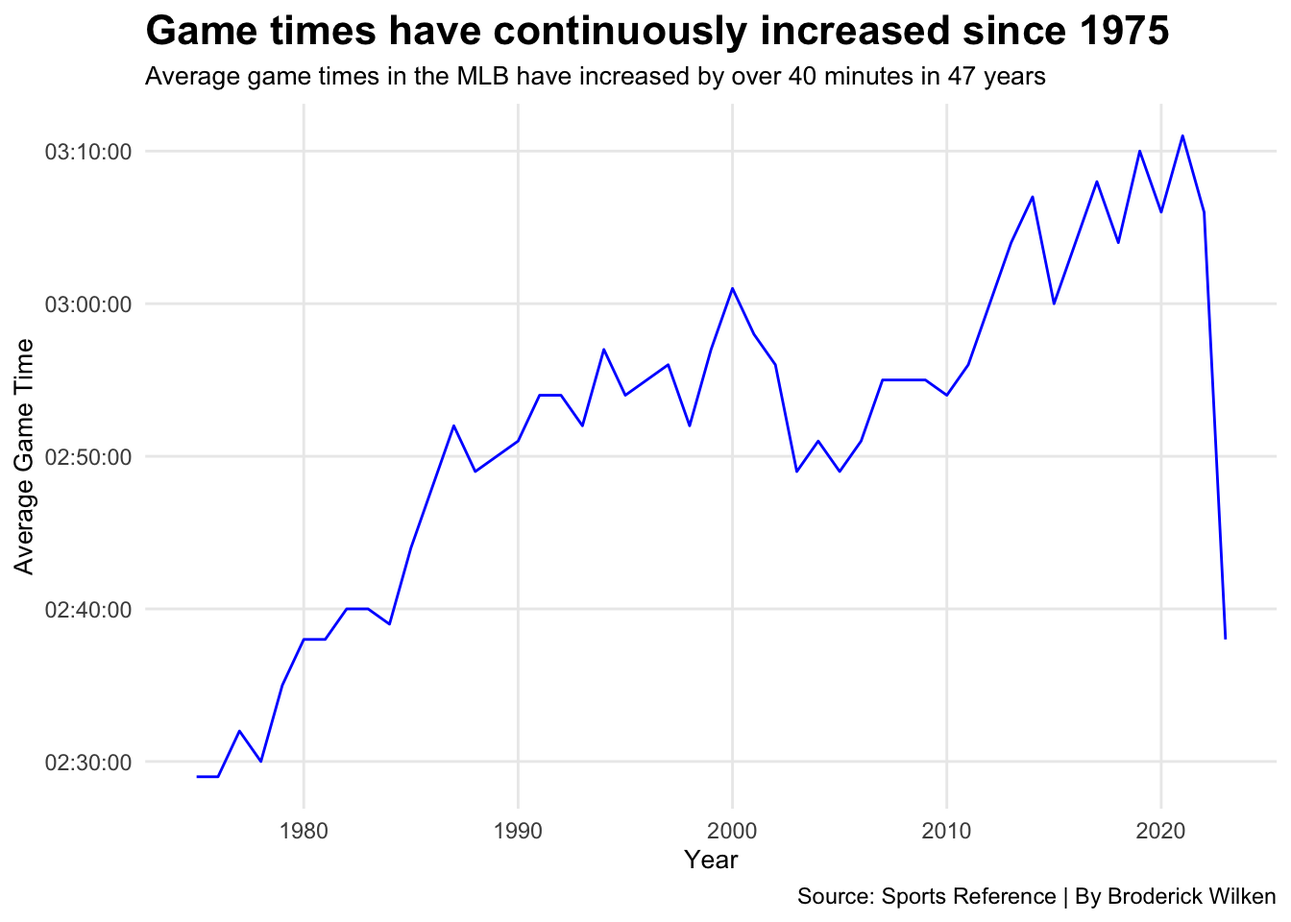
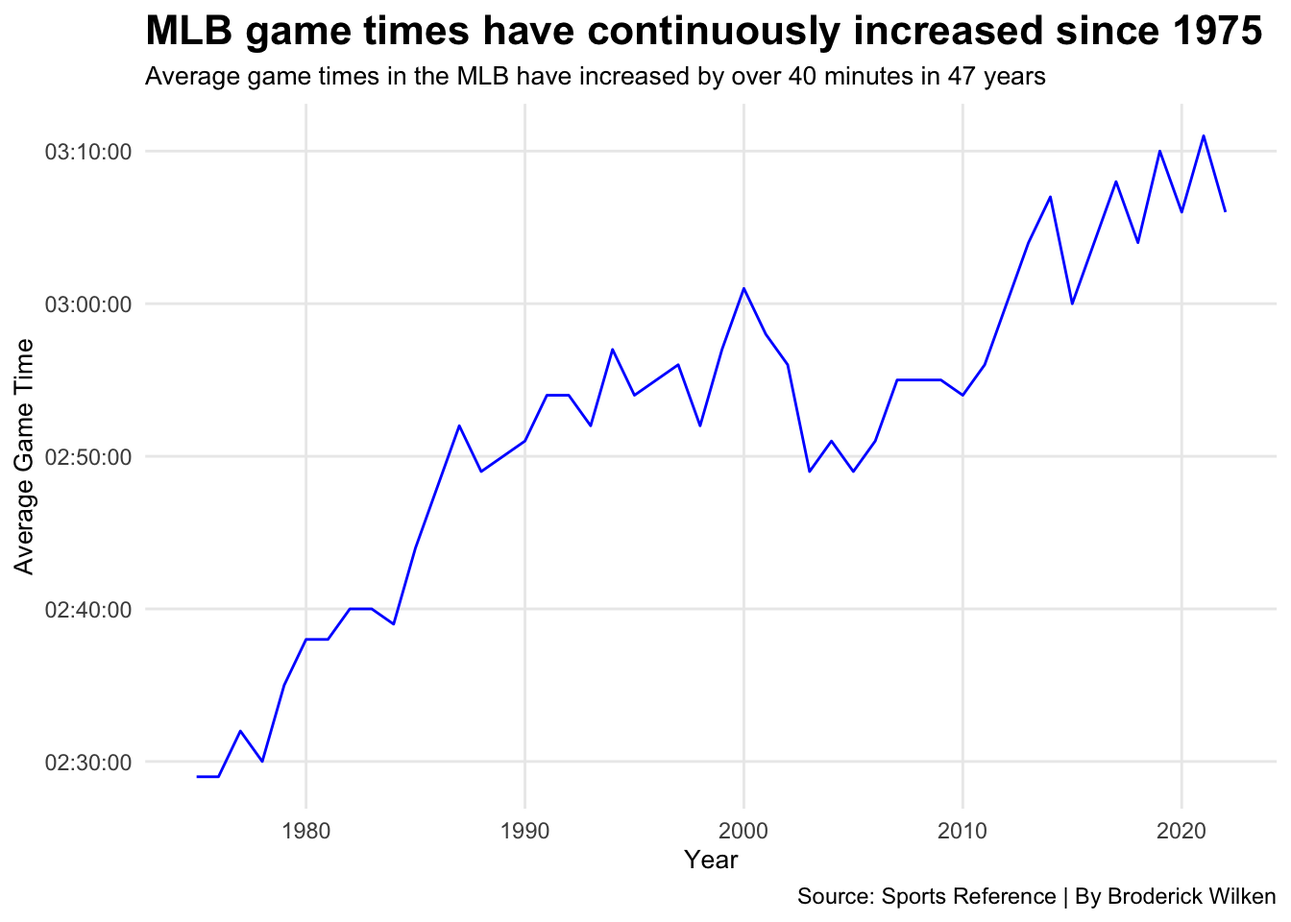
How the pitch clock will save major league baseball
Post 2

diff --git a/posts/how-the-pitch-clock-will-save-baseball/index.html b/posts/how-the-pitch-clock-will-save-baseball/index.html
@@ -9,7 +9,7 @@
 <meta name="author" content="Broderick Wilken">
 <meta name="dcterms.date" content="2023-05-07">
 
-<title>Brody’s Bytes - How the pitch clock will save baseball</title>
+<title>Brody’s Bytes - How the pitch clock will save Major League Baseball</title>
 <style>
 code{white-space: pre-wrap;}
 span.smallcaps{font-variant: small-caps;}
@@ -173,7 +173,7 @@ code span.wa { color: #60a0b0; font-weight: bold; font-style: italic; } /* Warni
 <header id="title-block-header" class="quarto-title-block default page-columns page-full">
   <div class="quarto-title-banner page-columns page-full">
     <div class="quarto-title column-body">
-      <h1 class="title">How the pitch clock will save baseball</h1>
+      <h1 class="title">How the pitch clock will save Major League Baseball</h1>
                                 <div class="quarto-categories">
                 <div class="quarto-category">baseball</div>
                 <div class="quarto-category">MLB</div>
@@ -213,6 +213,8 @@ code span.wa { color: #60a0b0; font-weight: bold; font-style: italic; } /* Warni
 
 
 
+<p>On September 8th, 2022, MLB announced that they would be adding a 15-second pitch clock to their baseball games. Many passionate fans are heavily against the rule change, and a lot of players hate it too. When looking at the business of MLB and the future of baseball, you can see the many reasons why a decision was made to add this rule.</p>
+<p>MLB has a massive problem with inactivity during games. In 2021, closing pitcher Aroldis Chapman took almost 30 seconds between pitches with a runner on base. That’s half a minute between every pitch where no action is happening. The average length of a baseball game in 1975 was two hours and twenty-nine minutes. In 2021, the average game was three hours and ten minutes.</p>
 <div class="cell">
 <details>
 <summary>Code</summary>
@@ -255,89 +257,141 @@ code span.wa { color: #60a0b0; font-weight: bold; font-style: italic; } /* Warni
 <span id="cb1-37"><a href="#cb1-37" aria-hidden="true" tabindex="-1"></a>    <span class="at">avg_vwrs =</span> <span class="fu">mean</span>(Viewers)</span>
 <span id="cb1-38"><a href="#cb1-38" aria-hidden="true" tabindex="-1"></a>  )</span>
 <span id="cb1-39"><a href="#cb1-39" aria-hidden="true" tabindex="-1"></a></span>
-<span id="cb1-40"><a href="#cb1-40" aria-hidden="true" tabindex="-1"></a>mlb_game_time <span class="ot">&lt;-</span> <span class="fu">read_csv</span>(<span class="st">"MLBGameTimes.csv"</span>)</span>
-<span id="cb1-41"><a href="#cb1-41" aria-hidden="true" tabindex="-1"></a></span>
-<span id="cb1-42"><a href="#cb1-42" aria-hidden="true" tabindex="-1"></a>mlb_attendance <span class="ot">&lt;-</span> <span class="fu">read_csv</span>(<span class="st">"2023-1990_MLB_Attendance.csv"</span>)</span>
-<span id="cb1-43"><a href="#cb1-43" aria-hidden="true" tabindex="-1"></a></span>
-<span id="cb1-44"><a href="#cb1-44" aria-hidden="true" tabindex="-1"></a>mlb_yr_attendance <span class="ot">&lt;-</span> mlb_attendance <span class="sc">%&gt;%</span></span>
-<span id="cb1-45"><a href="#cb1-45" aria-hidden="true" tabindex="-1"></a>  <span class="fu">filter</span>(Year <span class="sc">&gt;=</span> <span class="dv">2000</span>) <span class="sc">%&gt;%</span></span>
-<span id="cb1-46"><a href="#cb1-46" aria-hidden="true" tabindex="-1"></a>  <span class="fu">group_by</span>(Year) <span class="sc">%&gt;%</span></span>
-<span id="cb1-47"><a href="#cb1-47" aria-hidden="true" tabindex="-1"></a>  <span class="fu">summarise</span>(</span>
-<span id="cb1-48"><a href="#cb1-48" aria-hidden="true" tabindex="-1"></a>    <span class="at">avg_yr_att =</span> <span class="fu">mean</span>(<span class="st">`</span><span class="at">Attend/G</span><span class="st">`</span>),</span>
-<span id="cb1-49"><a href="#cb1-49" aria-hidden="true" tabindex="-1"></a>    <span class="at">total_att =</span> <span class="fu">sum</span>(<span class="st">`</span><span class="at">Attendance</span><span class="st">`</span>),</span>
-<span id="cb1-50"><a href="#cb1-50" aria-hidden="true" tabindex="-1"></a>    <span class="at">avg_time =</span> <span class="fu">mean</span>(Time)</span>
-<span id="cb1-51"><a href="#cb1-51" aria-hidden="true" tabindex="-1"></a>  ) <span class="sc">%&gt;%</span></span>
-<span id="cb1-52"><a href="#cb1-52" aria-hidden="true" tabindex="-1"></a>  <span class="fu">arrange</span>(<span class="fu">desc</span>(avg_yr_att))</span>
-<span id="cb1-53"><a href="#cb1-53" aria-hidden="true" tabindex="-1"></a></span>
-<span id="cb1-54"><a href="#cb1-54" aria-hidden="true" tabindex="-1"></a><span class="fu">ggplot</span>() <span class="sc">+</span></span>
-<span id="cb1-55"><a href="#cb1-55" aria-hidden="true" tabindex="-1"></a>  <span class="fu">geom_line</span>(<span class="at">data =</span> mlb_game_time, <span class="fu">aes</span>(<span class="at">x =</span> Year, <span class="at">y =</span> Time), <span class="at">color =</span> <span class="st">"blue"</span>) <span class="sc">+</span></span>
-<span id="cb1-56"><a href="#cb1-56" aria-hidden="true" tabindex="-1"></a>  <span class="fu">scale_y_time</span>() <span class="sc">+</span></span>
-<span id="cb1-57"><a href="#cb1-57" aria-hidden="true" tabindex="-1"></a>  <span class="fu">labs</span>(<span class="at">y =</span> <span class="st">"Average Game Time"</span>,</span>
-<span id="cb1-58"><a href="#cb1-58" aria-hidden="true" tabindex="-1"></a>       <span class="at">title =</span> <span class="st">"Game times have continuously increased since 1975"</span>,</span>
-<span id="cb1-59"><a href="#cb1-59" aria-hidden="true" tabindex="-1"></a>       <span class="at">subtitle =</span> <span class="st">"Average game times in the MLB have increased by over 40 minutes in 47 years"</span>,</span>
-<span id="cb1-60"><a href="#cb1-60" aria-hidden="true" tabindex="-1"></a>       <span class="at">caption =</span><span class="st">"Source: Sports Reference | By Broderick Wilken"</span>) <span class="sc">+</span></span>
-<span id="cb1-61"><a href="#cb1-61" aria-hidden="true" tabindex="-1"></a>  <span class="fu">theme_minimal</span>() <span class="sc">+</span></span>
-<span id="cb1-62"><a href="#cb1-62" aria-hidden="true" tabindex="-1"></a>  <span class="fu">theme</span>(</span>
-<span id="cb1-63"><a href="#cb1-63" aria-hidden="true" tabindex="-1"></a>    <span class="at">plot.title =</span> <span class="fu">element_text</span>(<span class="at">size =</span> <span class="dv">16</span>, <span class="at">face =</span> <span class="st">"bold"</span>),</span>
-<span id="cb1-64"><a href="#cb1-64" aria-hidden="true" tabindex="-1"></a>    <span class="at">plot.subtitle =</span> <span class="fu">element_text</span>(<span class="at">size =</span> <span class="dv">10</span>),</span>
-<span id="cb1-65"><a href="#cb1-65" aria-hidden="true" tabindex="-1"></a>    <span class="at">axis.title =</span> <span class="fu">element_text</span>(<span class="at">size =</span> <span class="dv">10</span>),</span>
-<span id="cb1-66"><a href="#cb1-66" aria-hidden="true" tabindex="-1"></a>    <span class="at">panel.grid.minor =</span> <span class="fu">element_blank</span>()</span>
-<span id="cb1-67"><a href="#cb1-67" aria-hidden="true" tabindex="-1"></a>  )</span></code><button title="Copy to Clipboard" class="code-copy-button"><i class="bi"></i></button></pre></div>
+<span id="cb1-40"><a href="#cb1-40" aria-hidden="true" tabindex="-1"></a>mlb_game_time <span class="ot">&lt;-</span> <span class="fu">read_csv</span>(<span class="st">"MLBGameTimes.csv"</span>) <span class="sc">%&gt;%</span></span>
+<span id="cb1-41"><a href="#cb1-41" aria-hidden="true" tabindex="-1"></a>  <span class="fu">filter</span>(Year <span class="sc">&lt;</span> <span class="dv">2023</span>)</span>
+<span id="cb1-42"><a href="#cb1-42" aria-hidden="true" tabindex="-1"></a></span>
+<span id="cb1-43"><a href="#cb1-43" aria-hidden="true" tabindex="-1"></a>mlb_attendance <span class="ot">&lt;-</span> <span class="fu">read_csv</span>(<span class="st">"2023-1990_MLB_Attendance.csv"</span>)</span>
+<span id="cb1-44"><a href="#cb1-44" aria-hidden="true" tabindex="-1"></a></span>
+<span id="cb1-45"><a href="#cb1-45" aria-hidden="true" tabindex="-1"></a>mlb_yr_attendance <span class="ot">&lt;-</span> mlb_attendance <span class="sc">%&gt;%</span></span>
+<span id="cb1-46"><a href="#cb1-46" aria-hidden="true" tabindex="-1"></a>  <span class="fu">filter</span>(Year <span class="sc">&gt;=</span> <span class="dv">2015</span>) <span class="sc">%&gt;%</span></span>
+<span id="cb1-47"><a href="#cb1-47" aria-hidden="true" tabindex="-1"></a>  <span class="fu">group_by</span>(Year) <span class="sc">%&gt;%</span></span>
+<span id="cb1-48"><a href="#cb1-48" aria-hidden="true" tabindex="-1"></a>  <span class="fu">summarise</span>(</span>
+<span id="cb1-49"><a href="#cb1-49" aria-hidden="true" tabindex="-1"></a>    <span class="at">avg_yr_att =</span> <span class="fu">mean</span>(<span class="st">`</span><span class="at">Attend/G</span><span class="st">`</span>),</span>
+<span id="cb1-50"><a href="#cb1-50" aria-hidden="true" tabindex="-1"></a>    <span class="at">total_att =</span> <span class="fu">sum</span>(<span class="st">`</span><span class="at">Attendance</span><span class="st">`</span>),</span>
+<span id="cb1-51"><a href="#cb1-51" aria-hidden="true" tabindex="-1"></a>    <span class="at">avg_time =</span> <span class="fu">mean</span>(Time)</span>
+<span id="cb1-52"><a href="#cb1-52" aria-hidden="true" tabindex="-1"></a>  ) <span class="sc">%&gt;%</span></span>
+<span id="cb1-53"><a href="#cb1-53" aria-hidden="true" tabindex="-1"></a>  <span class="fu">arrange</span>(<span class="fu">desc</span>(avg_yr_att))</span>
+<span id="cb1-54"><a href="#cb1-54" aria-hidden="true" tabindex="-1"></a></span>
+<span id="cb1-55"><a href="#cb1-55" aria-hidden="true" tabindex="-1"></a><span class="fu">ggplot</span>() <span class="sc">+</span></span>
+<span id="cb1-56"><a href="#cb1-56" aria-hidden="true" tabindex="-1"></a>  <span class="fu">geom_line</span>(<span class="at">data =</span> mlb_game_time, <span class="fu">aes</span>(<span class="at">x =</span> Year, <span class="at">y =</span> Time), <span class="at">color =</span> <span class="st">"blue"</span>) <span class="sc">+</span></span>
+<span id="cb1-57"><a href="#cb1-57" aria-hidden="true" tabindex="-1"></a>  <span class="fu">scale_y_time</span>() <span class="sc">+</span></span>
+<span id="cb1-58"><a href="#cb1-58" aria-hidden="true" tabindex="-1"></a>  <span class="fu">labs</span>(<span class="at">y =</span> <span class="st">"Average Game Time"</span>,</span>
+<span id="cb1-59"><a href="#cb1-59" aria-hidden="true" tabindex="-1"></a>       <span class="at">title =</span> <span class="st">"MLB game times have continuously increased since 1975"</span>,</span>
+<span id="cb1-60"><a href="#cb1-60" aria-hidden="true" tabindex="-1"></a>       <span class="at">subtitle =</span> <span class="st">"Average game times in the MLB have increased by over 40 minutes in 47 years"</span>,</span>
+<span id="cb1-61"><a href="#cb1-61" aria-hidden="true" tabindex="-1"></a>       <span class="at">caption =</span><span class="st">"Source: Sports Reference | By Broderick Wilken"</span>) <span class="sc">+</span></span>
+<span id="cb1-62"><a href="#cb1-62" aria-hidden="true" tabindex="-1"></a>  <span class="fu">theme_minimal</span>() <span class="sc">+</span></span>
+<span id="cb1-63"><a href="#cb1-63" aria-hidden="true" tabindex="-1"></a>  <span class="fu">theme</span>(</span>
+<span id="cb1-64"><a href="#cb1-64" aria-hidden="true" tabindex="-1"></a>    <span class="at">plot.title =</span> <span class="fu">element_text</span>(<span class="at">size =</span> <span class="dv">16</span>, <span class="at">face =</span> <span class="st">"bold"</span>),</span>
+<span id="cb1-65"><a href="#cb1-65" aria-hidden="true" tabindex="-1"></a>    <span class="at">plot.subtitle =</span> <span class="fu">element_text</span>(<span class="at">size =</span> <span class="dv">10</span>),</span>
+<span id="cb1-66"><a href="#cb1-66" aria-hidden="true" tabindex="-1"></a>    <span class="at">axis.title =</span> <span class="fu">element_text</span>(<span class="at">size =</span> <span class="dv">10</span>),</span>
+<span id="cb1-67"><a href="#cb1-67" aria-hidden="true" tabindex="-1"></a>    <span class="at">panel.grid.minor =</span> <span class="fu">element_blank</span>()</span>
+<span id="cb1-68"><a href="#cb1-68" aria-hidden="true" tabindex="-1"></a>  )</span></code><button title="Copy to Clipboard" class="code-copy-button"><i class="bi"></i></button></pre></div>
 </details>
 <div class="cell-output-display">
 <p><img src="index_files/figure-html/unnamed-chunk-1-1.png" class="img-fluid" width="672"></p>
 </div>
 </div>
+<p>While many passionate baseball fans love the length of baseball games, it’s struggled to reach a casual audience since the increase of game time. With over 40 extra minutes of inactivity during ball games, it’s not surprising to see that World Series viewership went in the wrong direction.</p>
 <div class="cell">
 <details>
 <summary>Code</summary>
-<div class="sourceCode cell-code" id="cb2"><pre class="sourceCode r code-with-copy"><code class="sourceCode r"><span id="cb2-1"><a href="#cb2-1" aria-hidden="true" tabindex="-1"></a><span class="fu">update_geom_defaults</span>(<span class="st">"text"</span>, <span class="fu">list</span>(<span class="at">size =</span> <span class="dv">3</span>))</span>
-<span id="cb2-2"><a href="#cb2-2" aria-hidden="true" tabindex="-1"></a></span>
-<span id="cb2-3"><a href="#cb2-3" aria-hidden="true" tabindex="-1"></a>bar1 <span class="ot">&lt;-</span> <span class="fu">ggplot</span>() <span class="sc">+</span></span>
-<span id="cb2-4"><a href="#cb2-4" aria-hidden="true" tabindex="-1"></a>  <span class="fu">geom_line</span>(<span class="at">data =</span> nfl_ratings, <span class="fu">aes</span>(<span class="at">x =</span> Year, <span class="at">y =</span> Viewers), <span class="at">color =</span> <span class="st">"#18453B"</span>) <span class="sc">+</span></span>
-<span id="cb2-5"><a href="#cb2-5" aria-hidden="true" tabindex="-1"></a>  <span class="fu">scale_y_continuous</span>(<span class="at">labels =</span> scales<span class="sc">::</span><span class="fu">unit_format</span>(<span class="at">unit =</span> <span class="st">"M"</span>)) <span class="sc">+</span></span>
-<span id="cb2-6"><a href="#cb2-6" aria-hidden="true" tabindex="-1"></a>  <span class="fu">labs</span>(<span class="at">title =</span> <span class="st">"Other championships are doing fine"</span>, <span class="at">subtitle =</span> <span class="st">"Super Bowl"</span>) <span class="sc">+</span></span>
-<span id="cb2-7"><a href="#cb2-7" aria-hidden="true" tabindex="-1"></a>    <span class="fu">theme_minimal</span>() <span class="sc">+</span></span>
-<span id="cb2-8"><a href="#cb2-8" aria-hidden="true" tabindex="-1"></a>  <span class="fu">theme</span>(</span>
-<span id="cb2-9"><a href="#cb2-9" aria-hidden="true" tabindex="-1"></a>    <span class="at">plot.title =</span> <span class="fu">element_text</span>(<span class="at">size =</span> <span class="dv">15</span>, <span class="at">face =</span> <span class="st">"bold"</span>))</span>
-<span id="cb2-10"><a href="#cb2-10" aria-hidden="true" tabindex="-1"></a>bar2 <span class="ot">&lt;-</span> <span class="fu">ggplot</span>() <span class="sc">+</span></span>
-<span id="cb2-11"><a href="#cb2-11" aria-hidden="true" tabindex="-1"></a>  <span class="fu">geom_line</span>(<span class="at">data =</span> nba_ratings, <span class="fu">aes</span>(<span class="at">x =</span> Year, <span class="at">y =</span> avg_vwrs), <span class="at">color =</span> <span class="st">"#18453B"</span>) <span class="sc">+</span></span>
-<span id="cb2-12"><a href="#cb2-12" aria-hidden="true" tabindex="-1"></a>  <span class="fu">scale_y_continuous</span>(<span class="at">labels =</span> scales<span class="sc">::</span><span class="fu">unit_format</span>(<span class="at">unit =</span> <span class="st">"M"</span>)) <span class="sc">+</span></span>
-<span id="cb2-13"><a href="#cb2-13" aria-hidden="true" tabindex="-1"></a>  <span class="fu">labs</span>(<span class="at">y =</span> <span class="st">"Viewers"</span>, <span class="at">title =</span> <span class="st">""</span>, <span class="at">subtitle =</span> <span class="st">"NBA Finals"</span>) <span class="sc">+</span></span>
-<span id="cb2-14"><a href="#cb2-14" aria-hidden="true" tabindex="-1"></a>    <span class="fu">theme_minimal</span>() <span class="sc">+</span></span>
-<span id="cb2-15"><a href="#cb2-15" aria-hidden="true" tabindex="-1"></a>  <span class="fu">theme</span>(</span>
-<span id="cb2-16"><a href="#cb2-16" aria-hidden="true" tabindex="-1"></a>    <span class="at">plot.title =</span> <span class="fu">element_text</span>(<span class="at">size =</span> <span class="dv">15</span>, <span class="at">face =</span> <span class="st">"bold"</span>))</span>
-<span id="cb2-17"><a href="#cb2-17" aria-hidden="true" tabindex="-1"></a>bar3 <span class="ot">&lt;-</span> <span class="fu">ggplot</span>() <span class="sc">+</span></span>
-<span id="cb2-18"><a href="#cb2-18" aria-hidden="true" tabindex="-1"></a>  <span class="fu">geom_line</span>(<span class="at">data =</span> ws_ratings, <span class="fu">aes</span>(<span class="at">x =</span> Year, <span class="at">y =</span> Viewers), <span class="at">color =</span> <span class="st">"red"</span>) <span class="sc">+</span></span>
-<span id="cb2-19"><a href="#cb2-19" aria-hidden="true" tabindex="-1"></a>  <span class="fu">geom_text</span>(<span class="fu">aes</span>(<span class="at">x =</span> <span class="dv">2016</span>, <span class="at">y =</span> <span class="dv">24500000</span>, <span class="at">label =</span> <span class="st">"2016 Cubs World Series"</span>)) <span class="sc">+</span></span>
-<span id="cb2-20"><a href="#cb2-20" aria-hidden="true" tabindex="-1"></a>  <span class="fu">geom_encircle</span>(<span class="at">data =</span> wscubs, <span class="fu">aes</span>(<span class="at">x =</span> Year, <span class="at">y =</span> Viewers), <span class="at">s_shape =</span> <span class="dv">2</span>, <span class="at">expand =</span> <span class="sc">-</span><span class="fl">0.151</span>, <span class="at">color =</span> <span class="st">"black"</span>) <span class="sc">+</span></span>
-<span id="cb2-21"><a href="#cb2-21" aria-hidden="true" tabindex="-1"></a>  <span class="fu">scale_y_continuous</span>(<span class="at">labels =</span> scales<span class="sc">::</span><span class="fu">unit_format</span>(<span class="at">unit =</span> <span class="st">"M"</span>, <span class="at">scale =</span> <span class="fl">1e-6</span>)) <span class="sc">+</span></span>
-<span id="cb2-22"><a href="#cb2-22" aria-hidden="true" tabindex="-1"></a>  <span class="fu">labs</span>(<span class="at">subtitle =</span> <span class="st">"World Series"</span>, <span class="at">caption=</span> <span class="st">""</span>) <span class="sc">+</span></span>
-<span id="cb2-23"><a href="#cb2-23" aria-hidden="true" tabindex="-1"></a>  <span class="fu">theme_minimal</span>() <span class="sc">+</span></span>
-<span id="cb2-24"><a href="#cb2-24" aria-hidden="true" tabindex="-1"></a>  <span class="fu">theme</span>(</span>
-<span id="cb2-25"><a href="#cb2-25" aria-hidden="true" tabindex="-1"></a>    <span class="at">plot.title =</span> <span class="fu">element_text</span>(<span class="at">size =</span> <span class="dv">13</span>),</span>
-<span id="cb2-26"><a href="#cb2-26" aria-hidden="true" tabindex="-1"></a>    <span class="at">plot.subtitle =</span> <span class="fu">element_text</span>(<span class="at">face =</span> <span class="st">"bold"</span>),</span>
-<span id="cb2-27"><a href="#cb2-27" aria-hidden="true" tabindex="-1"></a>    <span class="at">panel.grid.minor =</span> <span class="fu">element_blank</span>()</span>
-<span id="cb2-28"><a href="#cb2-28" aria-hidden="true" tabindex="-1"></a>  )</span>
-<span id="cb2-29"><a href="#cb2-29" aria-hidden="true" tabindex="-1"></a>bar4 <span class="ot">&lt;-</span> <span class="fu">ggplot</span>() <span class="sc">+</span></span>
-<span id="cb2-30"><a href="#cb2-30" aria-hidden="true" tabindex="-1"></a>  <span class="fu">geom_line</span>(<span class="at">data =</span> stanleycup_ratings, <span class="fu">aes</span>(<span class="at">x =</span> Year, <span class="at">y =</span> avg_vwrs), <span class="at">color =</span> <span class="st">"#18453B"</span>) <span class="sc">+</span></span>
-<span id="cb2-31"><a href="#cb2-31" aria-hidden="true" tabindex="-1"></a>  <span class="fu">scale_y_continuous</span>(<span class="at">labels =</span> scales<span class="sc">::</span><span class="fu">unit_format</span>(<span class="at">unit =</span> <span class="st">"M"</span>)) <span class="sc">+</span></span>
-<span id="cb2-32"><a href="#cb2-32" aria-hidden="true" tabindex="-1"></a>  <span class="fu">labs</span>(<span class="at">y =</span> <span class="st">"Viewers"</span>, <span class="at">subtitle =</span> <span class="st">"Stanley Cup"</span>, <span class="at">caption=</span> <span class="st">"Source: Baseball Almanac, Sports Media Watch  | By Broderick Wilken"</span>) <span class="sc">+</span></span>
-<span id="cb2-33"><a href="#cb2-33" aria-hidden="true" tabindex="-1"></a>    <span class="fu">theme_minimal</span>() </span>
-<span id="cb2-34"><a href="#cb2-34" aria-hidden="true" tabindex="-1"></a></span>
-<span id="cb2-35"><a href="#cb2-35" aria-hidden="true" tabindex="-1"></a><span class="fu">plot_grid</span>(bar1, bar2, bar3, bar4, <span class="at">ncol =</span> <span class="dv">2</span>)</span></code><button title="Copy to Clipboard" class="code-copy-button"><i class="bi"></i></button></pre></div>
+<div class="sourceCode cell-code" id="cb2"><pre class="sourceCode r code-with-copy"><code class="sourceCode r"><span id="cb2-1"><a href="#cb2-1" aria-hidden="true" tabindex="-1"></a><span class="fu">ggplot</span>() <span class="sc">+</span></span>
+<span id="cb2-2"><a href="#cb2-2" aria-hidden="true" tabindex="-1"></a>  <span class="fu">geom_line</span>(<span class="at">data =</span> ws_ratings75, <span class="fu">aes</span>(<span class="at">x =</span> Year, <span class="at">y =</span> Viewers), <span class="at">color =</span> <span class="st">"red"</span>) <span class="sc">+</span></span>
+<span id="cb2-3"><a href="#cb2-3" aria-hidden="true" tabindex="-1"></a>  <span class="fu">geom_text</span>(<span class="fu">aes</span>(<span class="at">x =</span> <span class="dv">2016</span>, <span class="at">y =</span> <span class="dv">25000000</span>, <span class="at">label =</span> <span class="st">"2016 Cubs World Series"</span>)) <span class="sc">+</span></span>
+<span id="cb2-4"><a href="#cb2-4" aria-hidden="true" tabindex="-1"></a>  <span class="fu">geom_encircle</span>(<span class="at">data =</span> wscubs, <span class="fu">aes</span>(<span class="at">x =</span> Year, <span class="at">y =</span> Viewers), <span class="at">s_shape =</span> <span class="dv">2</span>, <span class="at">expand =</span> <span class="sc">-</span><span class="fl">0.151</span>, <span class="at">color =</span> <span class="st">"black"</span>) <span class="sc">+</span></span>
+<span id="cb2-5"><a href="#cb2-5" aria-hidden="true" tabindex="-1"></a>  <span class="fu">scale_y_continuous</span>(<span class="at">labels =</span> scales<span class="sc">::</span><span class="fu">unit_format</span>(<span class="at">unit =</span> <span class="st">"M"</span>, <span class="at">scale =</span> <span class="fl">1e-6</span>)) <span class="sc">+</span></span>
+<span id="cb2-6"><a href="#cb2-6" aria-hidden="true" tabindex="-1"></a>  <span class="fu">labs</span>(<span class="at">y =</span> <span class="st">"Viewers"</span>,</span>
+<span id="cb2-7"><a href="#cb2-7" aria-hidden="true" tabindex="-1"></a>       <span class="at">title =</span> <span class="st">"World Series viewership has continuously decreased since 1975"</span>,</span>
+<span id="cb2-8"><a href="#cb2-8" aria-hidden="true" tabindex="-1"></a>       <span class="at">subtitle =</span> <span class="st">"Average game times in the MLB have increased by over 40 minutes in 47 years"</span>,</span>
+<span id="cb2-9"><a href="#cb2-9" aria-hidden="true" tabindex="-1"></a>       <span class="at">caption =</span><span class="st">"Source: Baseball Almanac | By Broderick Wilken"</span>) <span class="sc">+</span></span>
+<span id="cb2-10"><a href="#cb2-10" aria-hidden="true" tabindex="-1"></a>  <span class="fu">theme_minimal</span>() <span class="sc">+</span></span>
+<span id="cb2-11"><a href="#cb2-11" aria-hidden="true" tabindex="-1"></a>  <span class="fu">theme</span>(</span>
+<span id="cb2-12"><a href="#cb2-12" aria-hidden="true" tabindex="-1"></a>    <span class="at">plot.title =</span> <span class="fu">element_text</span>(<span class="at">size =</span> <span class="dv">13</span>, <span class="at">face =</span> <span class="st">"bold"</span>),</span>
+<span id="cb2-13"><a href="#cb2-13" aria-hidden="true" tabindex="-1"></a>    <span class="at">plot.subtitle =</span> <span class="fu">element_text</span>(<span class="at">size =</span> <span class="dv">9</span>),</span>
+<span id="cb2-14"><a href="#cb2-14" aria-hidden="true" tabindex="-1"></a>    <span class="at">axis.title =</span> <span class="fu">element_text</span>(<span class="at">size =</span> <span class="dv">10</span>),</span>
+<span id="cb2-15"><a href="#cb2-15" aria-hidden="true" tabindex="-1"></a>    <span class="at">panel.grid.minor =</span> <span class="fu">element_blank</span>()</span>
+<span id="cb2-16"><a href="#cb2-16" aria-hidden="true" tabindex="-1"></a>  )</span></code><button title="Copy to Clipboard" class="code-copy-button"><i class="bi"></i></button></pre></div>
 </details>
 <div class="cell-output-display">
 <p><img src="index_files/figure-html/unnamed-chunk-2-1.png" class="img-fluid" width="672"></p>
 </div>
+</div>
+<p>When looking at this obvious decline, you could argue that the internet, social media, and a wider range of TV broadcast options have caused other sports organizations to experience the same decline. While some organizations have experienced hiccups in viewership, the World Series continues to stick out like a sore thumb.</p>
+<div class="cell">
 <details>
 <summary>Code</summary>
-<div class="sourceCode cell-code" id="cb3"><pre class="sourceCode r code-with-copy"><code class="sourceCode r"><span id="cb3-1"><a href="#cb3-1" aria-hidden="true" tabindex="-1"></a><span class="fu">ggsave</span>(<span class="st">"image.png"</span>)</span></code><button title="Copy to Clipboard" class="code-copy-button"><i class="bi"></i></button></pre></div>
+<div class="sourceCode cell-code" id="cb3"><pre class="sourceCode r code-with-copy"><code class="sourceCode r"><span id="cb3-1"><a href="#cb3-1" aria-hidden="true" tabindex="-1"></a><span class="fu">update_geom_defaults</span>(<span class="st">"text"</span>, <span class="fu">list</span>(<span class="at">size =</span> <span class="dv">3</span>))</span>
+<span id="cb3-2"><a href="#cb3-2" aria-hidden="true" tabindex="-1"></a></span>
+<span id="cb3-3"><a href="#cb3-3" aria-hidden="true" tabindex="-1"></a>bar1 <span class="ot">&lt;-</span> <span class="fu">ggplot</span>() <span class="sc">+</span></span>
+<span id="cb3-4"><a href="#cb3-4" aria-hidden="true" tabindex="-1"></a>  <span class="fu">geom_line</span>(<span class="at">data =</span> nfl_ratings, <span class="fu">aes</span>(<span class="at">x =</span> Year, <span class="at">y =</span> Viewers), <span class="at">color =</span> <span class="st">"#18453B"</span>) <span class="sc">+</span></span>
+<span id="cb3-5"><a href="#cb3-5" aria-hidden="true" tabindex="-1"></a>  <span class="fu">scale_y_continuous</span>(<span class="at">labels =</span> scales<span class="sc">::</span><span class="fu">unit_format</span>(<span class="at">unit =</span> <span class="st">"M"</span>)) <span class="sc">+</span></span>
+<span id="cb3-6"><a href="#cb3-6" aria-hidden="true" tabindex="-1"></a>  <span class="fu">labs</span>(<span class="at">title =</span> <span class="st">"Other championships are doing fine"</span>, <span class="at">subtitle =</span> <span class="st">"Super Bowl"</span>) <span class="sc">+</span></span>
+<span id="cb3-7"><a href="#cb3-7" aria-hidden="true" tabindex="-1"></a>    <span class="fu">theme_minimal</span>() <span class="sc">+</span></span>
+<span id="cb3-8"><a href="#cb3-8" aria-hidden="true" tabindex="-1"></a>  <span class="fu">theme</span>(</span>
+<span id="cb3-9"><a href="#cb3-9" aria-hidden="true" tabindex="-1"></a>    <span class="at">plot.title =</span> <span class="fu">element_text</span>(<span class="at">size =</span> <span class="dv">15</span>, <span class="at">face =</span> <span class="st">"bold"</span>))</span>
+<span id="cb3-10"><a href="#cb3-10" aria-hidden="true" tabindex="-1"></a>bar2 <span class="ot">&lt;-</span> <span class="fu">ggplot</span>() <span class="sc">+</span></span>
+<span id="cb3-11"><a href="#cb3-11" aria-hidden="true" tabindex="-1"></a>  <span class="fu">geom_line</span>(<span class="at">data =</span> nba_ratings, <span class="fu">aes</span>(<span class="at">x =</span> Year, <span class="at">y =</span> avg_vwrs), <span class="at">color =</span> <span class="st">"#18453B"</span>) <span class="sc">+</span></span>
+<span id="cb3-12"><a href="#cb3-12" aria-hidden="true" tabindex="-1"></a>  <span class="fu">scale_y_continuous</span>(<span class="at">labels =</span> scales<span class="sc">::</span><span class="fu">unit_format</span>(<span class="at">unit =</span> <span class="st">"M"</span>)) <span class="sc">+</span></span>
+<span id="cb3-13"><a href="#cb3-13" aria-hidden="true" tabindex="-1"></a>  <span class="fu">labs</span>(<span class="at">y =</span> <span class="st">"Viewers"</span>, <span class="at">title =</span> <span class="st">""</span>, <span class="at">subtitle =</span> <span class="st">"NBA Finals"</span>) <span class="sc">+</span></span>
+<span id="cb3-14"><a href="#cb3-14" aria-hidden="true" tabindex="-1"></a>    <span class="fu">theme_minimal</span>() <span class="sc">+</span></span>
+<span id="cb3-15"><a href="#cb3-15" aria-hidden="true" tabindex="-1"></a>  <span class="fu">theme</span>(</span>
+<span id="cb3-16"><a href="#cb3-16" aria-hidden="true" tabindex="-1"></a>    <span class="at">plot.title =</span> <span class="fu">element_text</span>(<span class="at">size =</span> <span class="dv">15</span>, <span class="at">face =</span> <span class="st">"bold"</span>))</span>
+<span id="cb3-17"><a href="#cb3-17" aria-hidden="true" tabindex="-1"></a>bar3 <span class="ot">&lt;-</span> <span class="fu">ggplot</span>() <span class="sc">+</span></span>
+<span id="cb3-18"><a href="#cb3-18" aria-hidden="true" tabindex="-1"></a>  <span class="fu">geom_line</span>(<span class="at">data =</span> ws_ratings, <span class="fu">aes</span>(<span class="at">x =</span> Year, <span class="at">y =</span> Viewers), <span class="at">color =</span> <span class="st">"red"</span>) <span class="sc">+</span></span>
+<span id="cb3-19"><a href="#cb3-19" aria-hidden="true" tabindex="-1"></a>  <span class="fu">geom_text</span>(<span class="fu">aes</span>(<span class="at">x =</span> <span class="dv">2016</span>, <span class="at">y =</span> <span class="dv">24500000</span>, <span class="at">label =</span> <span class="st">"2016 Cubs World Series"</span>)) <span class="sc">+</span></span>
+<span id="cb3-20"><a href="#cb3-20" aria-hidden="true" tabindex="-1"></a>  <span class="fu">geom_encircle</span>(<span class="at">data =</span> wscubs, <span class="fu">aes</span>(<span class="at">x =</span> Year, <span class="at">y =</span> Viewers), <span class="at">s_shape =</span> <span class="dv">2</span>, <span class="at">expand =</span> <span class="sc">-</span><span class="fl">0.151</span>, <span class="at">color =</span> <span class="st">"black"</span>) <span class="sc">+</span></span>
+<span id="cb3-21"><a href="#cb3-21" aria-hidden="true" tabindex="-1"></a>  <span class="fu">scale_y_continuous</span>(<span class="at">labels =</span> scales<span class="sc">::</span><span class="fu">unit_format</span>(<span class="at">unit =</span> <span class="st">"M"</span>, <span class="at">scale =</span> <span class="fl">1e-6</span>)) <span class="sc">+</span></span>
+<span id="cb3-22"><a href="#cb3-22" aria-hidden="true" tabindex="-1"></a>  <span class="fu">labs</span>(<span class="at">subtitle =</span> <span class="st">"World Series"</span>, <span class="at">caption=</span> <span class="st">""</span>) <span class="sc">+</span></span>
+<span id="cb3-23"><a href="#cb3-23" aria-hidden="true" tabindex="-1"></a>  <span class="fu">theme_minimal</span>() <span class="sc">+</span></span>
+<span id="cb3-24"><a href="#cb3-24" aria-hidden="true" tabindex="-1"></a>  <span class="fu">theme</span>(</span>
+<span id="cb3-25"><a href="#cb3-25" aria-hidden="true" tabindex="-1"></a>    <span class="at">plot.title =</span> <span class="fu">element_text</span>(<span class="at">size =</span> <span class="dv">13</span>),</span>
+<span id="cb3-26"><a href="#cb3-26" aria-hidden="true" tabindex="-1"></a>    <span class="at">plot.subtitle =</span> <span class="fu">element_text</span>(<span class="at">face =</span> <span class="st">"bold"</span>),</span>
+<span id="cb3-27"><a href="#cb3-27" aria-hidden="true" tabindex="-1"></a>    <span class="at">panel.grid.minor =</span> <span class="fu">element_blank</span>()</span>
+<span id="cb3-28"><a href="#cb3-28" aria-hidden="true" tabindex="-1"></a>  )</span>
+<span id="cb3-29"><a href="#cb3-29" aria-hidden="true" tabindex="-1"></a>bar4 <span class="ot">&lt;-</span> <span class="fu">ggplot</span>() <span class="sc">+</span></span>
+<span id="cb3-30"><a href="#cb3-30" aria-hidden="true" tabindex="-1"></a>  <span class="fu">geom_line</span>(<span class="at">data =</span> stanleycup_ratings, <span class="fu">aes</span>(<span class="at">x =</span> Year, <span class="at">y =</span> avg_vwrs), <span class="at">color =</span> <span class="st">"#18453B"</span>) <span class="sc">+</span></span>
+<span id="cb3-31"><a href="#cb3-31" aria-hidden="true" tabindex="-1"></a>  <span class="fu">scale_y_continuous</span>(<span class="at">labels =</span> scales<span class="sc">::</span><span class="fu">unit_format</span>(<span class="at">unit =</span> <span class="st">"M"</span>)) <span class="sc">+</span></span>
+<span id="cb3-32"><a href="#cb3-32" aria-hidden="true" tabindex="-1"></a>  <span class="fu">labs</span>(<span class="at">y =</span> <span class="st">"Viewers"</span>, <span class="at">subtitle =</span> <span class="st">"Stanley Cup"</span>, <span class="at">caption=</span> <span class="st">"Source: Baseball Almanac, Sports Media Watch  | By Broderick Wilken"</span>) <span class="sc">+</span></span>
+<span id="cb3-33"><a href="#cb3-33" aria-hidden="true" tabindex="-1"></a>    <span class="fu">theme_minimal</span>() </span>
+<span id="cb3-34"><a href="#cb3-34" aria-hidden="true" tabindex="-1"></a></span>
+<span id="cb3-35"><a href="#cb3-35" aria-hidden="true" tabindex="-1"></a><span class="fu">plot_grid</span>(bar1, bar2, bar3, bar4, <span class="at">ncol =</span> <span class="dv">2</span>)</span></code><button title="Copy to Clipboard" class="code-copy-button"><i class="bi"></i></button></pre></div>
+</details>
+<div class="cell-output-display">
+<p><img src="index_files/figure-html/unnamed-chunk-3-1.png" class="img-fluid" width="672"></p>
+</div>
+<details>
+<summary>Code</summary>
+<div class="sourceCode cell-code" id="cb4"><pre class="sourceCode r code-with-copy"><code class="sourceCode r"><span id="cb4-1"><a href="#cb4-1" aria-hidden="true" tabindex="-1"></a><span class="fu">ggsave</span>(<span class="st">"image.png"</span>)</span></code><button title="Copy to Clipboard" class="code-copy-button"><i class="bi"></i></button></pre></div>
 </details>
 <div class="cell-output cell-output-stderr">
 <pre><code>Saving 7 x 5 in image</code></pre>
 </div>
 </div>
+<p>The length of games has become such a problem that it’s even hindering attendance numbers. MLB stadiums are well known for incorporating extra activities to do outside of watching the game. This has been a huge reason for their success in producing large attendance numbers through long seasons. With a large increase in game length through the last decade, MLB parks and stadiums are struggling to bring their attendance numbers up.</p>
+<div class="cell">
+<details>
+<summary>Code</summary>
+<div class="sourceCode cell-code" id="cb6"><pre class="sourceCode r code-with-copy"><code class="sourceCode r"><span id="cb6-1"><a href="#cb6-1" aria-hidden="true" tabindex="-1"></a><span class="fu">ggplot</span>() <span class="sc">+</span></span>
+<span id="cb6-2"><a href="#cb6-2" aria-hidden="true" tabindex="-1"></a>  <span class="fu">geom_bar</span>(<span class="at">data =</span> mlb_yr_attendance, <span class="fu">aes</span>(<span class="at">x =</span> Year, <span class="at">weight =</span> avg_yr_att), <span class="at">fill =</span> <span class="st">"maroon"</span>) <span class="sc">+</span></span>
+<span id="cb6-3"><a href="#cb6-3" aria-hidden="true" tabindex="-1"></a>  <span class="fu">scale_y_continuous</span>(<span class="at">labels =</span> scales<span class="sc">::</span><span class="fu">unit_format</span>(<span class="at">unit =</span> <span class="st">"K"</span>, <span class="at">scale =</span> <span class="fl">1e-3</span>)) <span class="sc">+</span></span>
+<span id="cb6-4"><a href="#cb6-4" aria-hidden="true" tabindex="-1"></a>  <span class="fu">labs</span>(<span class="at">y =</span> <span class="st">"Average Game Attendance"</span>,</span>
+<span id="cb6-5"><a href="#cb6-5" aria-hidden="true" tabindex="-1"></a>       <span class="at">title =</span> <span class="st">"MLB's average game attendance has begun to drop"</span>,</span>
+<span id="cb6-6"><a href="#cb6-6" aria-hidden="true" tabindex="-1"></a>       <span class="at">subtitle =</span> <span class="st">"Excluding the 2020 season, attendance has steadily dropped by almost 5,000 fans in 9 years"</span>,</span>
+<span id="cb6-7"><a href="#cb6-7" aria-hidden="true" tabindex="-1"></a>       <span class="at">caption =</span><span class="st">"Source: Sports Reference | By Broderick Wilken"</span>) <span class="sc">+</span></span>
+<span id="cb6-8"><a href="#cb6-8" aria-hidden="true" tabindex="-1"></a>  <span class="fu">theme_minimal</span>() <span class="sc">+</span></span>
+<span id="cb6-9"><a href="#cb6-9" aria-hidden="true" tabindex="-1"></a>  <span class="fu">theme</span>(</span>
+<span id="cb6-10"><a href="#cb6-10" aria-hidden="true" tabindex="-1"></a>    <span class="at">plot.title =</span> <span class="fu">element_text</span>(<span class="at">size =</span> <span class="dv">16</span>, <span class="at">face =</span> <span class="st">"bold"</span>),</span>
+<span id="cb6-11"><a href="#cb6-11" aria-hidden="true" tabindex="-1"></a>    <span class="at">plot.subtitle =</span> <span class="fu">element_text</span>(<span class="at">size =</span> <span class="dv">10</span>),</span>
+<span id="cb6-12"><a href="#cb6-12" aria-hidden="true" tabindex="-1"></a>    <span class="at">axis.title =</span> <span class="fu">element_text</span>(<span class="at">size =</span> <span class="dv">10</span>),</span>
+<span id="cb6-13"><a href="#cb6-13" aria-hidden="true" tabindex="-1"></a>    <span class="at">panel.grid.minor =</span> <span class="fu">element_blank</span>()</span>
+<span id="cb6-14"><a href="#cb6-14" aria-hidden="true" tabindex="-1"></a>  )</span></code><button title="Copy to Clipboard" class="code-copy-button"><i class="bi"></i></button></pre></div>
+</details>
+<div class="cell-output-display">
+<p><img src="index_files/figure-html/unnamed-chunk-4-1.png" class="img-fluid" width="672"></p>
+</div>
+</div>
+<p>So, what’s the solution? In short, MLB has already put it in place. While the pitch clock may receive disapproval from players and dedicated fans, speeding up games will create more action and will allow casual fans to enjoy the sport as well. At the end of the day, MLB baseball is a business. If broadcast and attendance numbers aren’t up, something must change to keep the sport alive. In a couple of years, the pitch clock could be the rule to grow the sport and bring it back to the popularity it once had.</p>
+<p>There’s only one thing left for MLB to fix… the blackouts.</p>
 
 
 

diff --git a/index.html b/index.html
@@ -171,14 +171,14 @@ ul.task-list li input[type="checkbox"] {
 
 <div class="quarto-listing quarto-listing-container-default" id="listing-listing">
 <div class="list quarto-listing-default">
-<div class="quarto-post image-right" data-index="0" data-categories="baseball,MLB,pitch clock" data-listing-date-sort="1683435600000" data-listing-file-modified-sort="1683513531933" data-listing-reading-time-sort="2.65">
+<div class="quarto-post image-right" data-index="0" data-categories="baseball,MLB,pitch clock" data-listing-date-sort="1683435600000" data-listing-file-modified-sort="1683521495283" data-listing-reading-time-sort="6.11">
 <div class="thumbnail">
 <p><a href="./posts/how-the-pitch-clock-will-save-baseball/index.html"> <img src="./posts/how-the-pitch-clock-will-save-baseball/image.png" class="thumnail-image"> </a></p>
 </div>
 <div class="body">
 <a href="./posts/how-the-pitch-clock-will-save-baseball/index.html">
 <h3 class="no-anchor listing-title">
-How the pitch clock will save baseball
+How the pitch clock will save Major League Baseball
 </h3>
 <div class="listing-subtitle">
 
@@ -197,7 +197,7 @@ pitch clock
 </div>
 <a href="./posts/how-the-pitch-clock-will-save-baseball/index.html">
 <div class="listing-description">
-
+On September 8th, 2022, MLB announced that they would be adding a 15-second pitch clock to their baseball games. Many passionate fans are heavily against the rule…
 </div>
 </a>
 </div>
